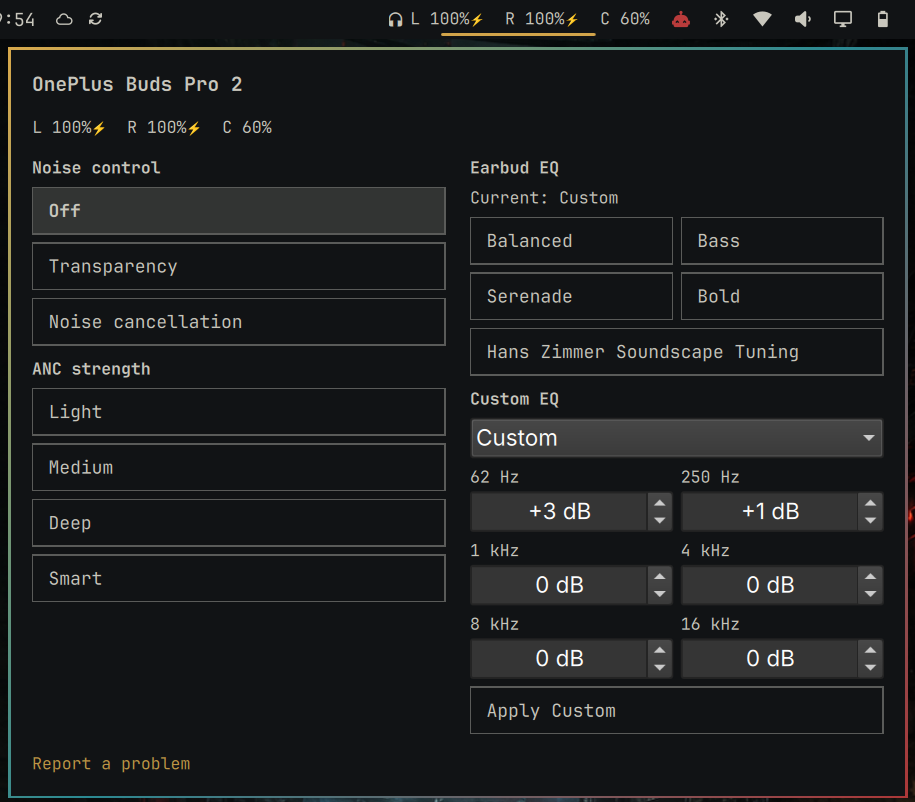
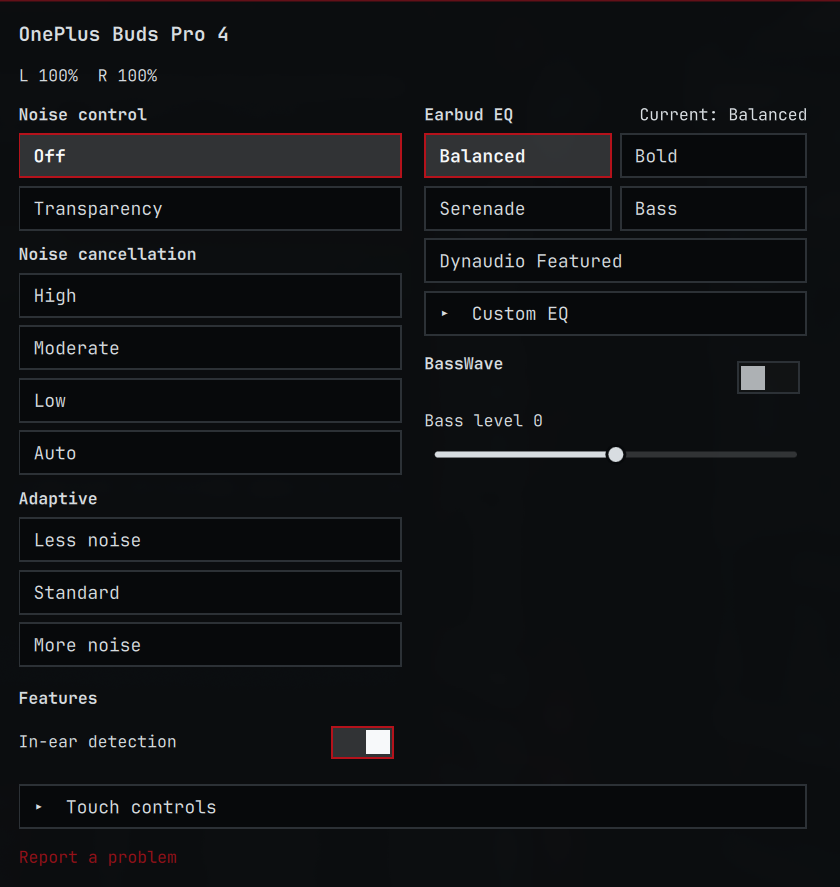
docs: show the hardware-tested Buds Pro 4 panel

diff --git a/BarWidget.qml b/BarWidget.qml
@@ -96,7 +96,9 @@ BarWidget {
     && snapshot.bass_level !== undefined) ? Number(snapshot.bass_level) : 0
   readonly property bool bassEngineEnabled: featureSwitches.bass_engine === true
   readonly property var bassLevelRange: snapshot && snapshot.bass_level_range || [-10, 10]
-  readonly property var featureList: BarModel.featureList(snapshot)
+  readonly property var featureList: BarModel.featureList(snapshot).filter(function(feature) {
+    return !(root.bassEngineAvailable && feature.name === "bass_engine")
+  })
   readonly property bool useTwoColumnLayout: eqAvailable
     && popup.availableCardWidth >= Style.space(560)
   readonly property int panelHeight: popup.contentHeight

diff --git a/tests/qml/tst_hover.qml b/tests/qml/tst_hover.qml
@@ -676,6 +676,13 @@ TestCase {
   verify(widget.reportActionShown)
   compare(widget.reportActionLabel, "Report a problem")
 
+  service.snapshot = ({status:{model:"OnePlus Buds Pro 4",product_id:"067814",battery:{}},
+   compatibility:"experimental", anc_modes:["off","transparency"], capabilities:[], session_connected:true})
+  wait(0)
+  verify(!widget.experimentalDevice)
+  verify(!widget.compatibilityNoticeShown)
+  compare(widget.reportActionLabel, "Report a problem")
+
   service.snapshot = ({status:{model:null,product_id:"A1B2C3",battery:{}},
    compatibility:"experimental", anc_modes:[], capabilities:[], session_connected:false})
   wait(0)

diff --git a/BarModel.js b/BarModel.js
@@ -193,6 +193,8 @@ function featureList(snapshot) {
 
 function compatibility(snapshot) {
   var value = snapshot ? String(snapshot.compatibility || "") : ""
+  // Pro 4 has operation-specific write permissions but is hardware tested.
+  if (value === "experimental" && snapshot.status?.product_id === "067814") return "verified"
   if (value === "verified" || value === "community_tested") return value
   return value ? "experimental" : ""
 }

diff --git a/README.md b/README.md
@@ -3,6 +3,8 @@
 A native Omarchy bar widget and Linux backend for OnePlus earbuds. Check battery
 levels and change noise control from a compact, theme-aware panel.
 
+![OnePlus Buds Pro 4 panel on Omarchy](preview.png)
+
 **Status: 0.1.0 release candidate.** Buds Pro and Buds Pro 2 have
 maintainer-verified basic controls and native EQ. Buds Pro 4 has hardware-tested
 ANC and EQ. Buds 4 and Nord Buds 3 Pro
@@ -25,7 +27,7 @@ yet. This is an independent project, unaffiliated with OnePlus or OPPO.
 |---|---|---|---|
 | OnePlus Buds Pro | Verified on hardware | 541.541.510 | Light, Deep, Smart |
 | OnePlus Buds Pro 2 | Verified on hardware | 196.196.101 | Light, Medium, Deep, Smart |
-| OnePlus Buds Pro 4 (`067814`) | Hardware tested for ANC and EQ. Earbud controls and wear detection pending. | 116.116.100 | Off, Transparency, Noise cancellation (High, Moderate, Low, Auto), Adaptive (Less noise, Standard, More noise) |
+| OnePlus Buds Pro 4 (`067814`) | Hardware tested for ANC, EQ, In-ear detection, supported tap and slide assignments, and BassWave | 116.116.100 | Off, Transparency, Noise cancellation (High, Moderate, Low, Auto), Adaptive (Less noise, Standard, More noise) |
 | OnePlus Buds 4 | Community tested on contributor hardware | 138.138.105 | Light, Medium, Deep, Smart; Adaptive mode |
 | OnePlus Nord Buds 3 Pro | Community tested on contributor hardware | 155.155.101 | Low, Moderate, High, Auto |
 | Other compatible OnePlus/OPO devices | Experimental if recognised; no verified controls | Unknown | Not exposed |
@@ -63,7 +65,8 @@ Transparency and EQ are welcome even when everything works.
 
 ## Requirements
 
-Live-tested with Omarchy **4.0.2-1** and **4.0.3-1**, its
+Live-tested with Omarchy **4.5.0-3** for Buds Pro 4, and earlier with
+Omarchy **4.0.2-1** and **4.0.3-1**, its
 Quickshell/Quattro shell, BlueZ 5.87 and Python 3.14.7. Python 3.11+ is required;
 older Python releases have not been tested here.
 The native widget needs Omarchy's `qs.Ui` and `qs.Commons` modules, not a standalone
@@ -163,6 +166,12 @@ Linux also recreated Custom1 in slot 4 from an empty catalogue using the
 tested layout (31 Hz to 16 kHz, −6 to +6 dB). A fresh session verified the
 restored curve and Dynaudio Featured selection. Slot 4 stays protected
 from panel rename and delete. See the [Pro 4 test notes](docs/devices/oneplus-buds-pro-4.md).
+
+Pro 4 also supports the verified BassWave toggle and level from −5 to +5,
+and In-ear detection that pauses playback on removal. The tap menus offer
+tested assignments for both single, double, and triple presses. Both slide
+menus offer Volume control and Switch track. Squeeze-and-hold editing remains
+read-only. Use the official phone app to restore Gemini assignments.
 
 The Nord Buds 3 Pro exposes Balanced (Default), Serenade and Bass.
 The Nord Buds 3 Pro also edits custom curves and manages profiles (create/
